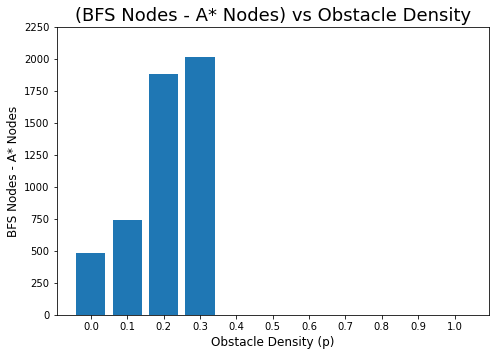
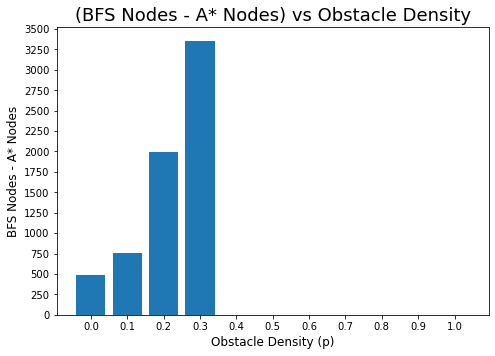
Fixed DFS

diff --git a/Project 1/Maze.py b/Project 1/Maze.py
@@ -24,13 +24,13 @@ class Coord:
         """check whether the cell is available in the game
         :return: boolean
         """
-        return self._m[self._x][self._y] == 0 or self._m[self._x][self._y] == -2
+        return self._m[self._x][self._y] == 0
 
     def get_neighbor_coords(self):
         x, y = (self._x, self._y)
-        coords = [(x, y + 1), (x - 1, y), (x + 1, y), (x, y - 1)]
+        coords = [(x - 1, y), (x, y - 1), (x + 1, y), (x, y + 1)]
         dim = len(self._m)
-        li = [(a, b) for (a, b) in coords if 0 <= a < dim and 0 <= b < dim and (self._m[a][b] == 0 or self._m[a][b] == -2)]
+        li = [(a, b) for (a, b) in coords if 0 <= a < dim and 0 <= b < dim and self._m[a][b] == 0]
         return li
 
     def close(self):
@@ -400,7 +400,14 @@ class MazeGame:
                 return False
             for fire in self._fire_loc:
                 if point[0] == fire[0] and point[1] == fire[1]:
-                    return False        
+                    return False
+                
+    def plot_path(self):
+        color_list = ['#ffff00', 'w', '#808080', 'g']  # [-1 yellow, 0 white, 1 grey, 2 green]
+        no_path_colors = ['#ffff00', 'w', '#808080']
+        colors = ListedColormap(color_list if len(self._path) > 0 else no_path_colors)
+        plt.matshow(self._matrix, interpolation='none', cmap=colors)
+        plt.show()
         
 def test_strat_1(n):
     average_success_per_q = []
@@ -601,7 +608,7 @@ def test_time_bfs():
     
 def test_time_dfs():
     time_consumed = 0
-    size = 650
+    size = 7000
     while time_consumed <= 60:
         i=1
         while i <= 5:
@@ -610,12 +617,13 @@ def test_time_dfs():
             if game.dfs((0,0), (size-1, size-1)) == False:
                 continue
             time_end = time.time()
+            print(time_end-time_start)
             time_consumed += time_end-time_start
             i+=1
         time_consumed = time_consumed/5
         print(size, ":", time_consumed)
-        size += 10
-    print("Largest DFS size:", size-20, "x", size-20)
+        size += 100
+    print("Largest DFS size:", size-200, "x", size-200)
 
 def test_time_a_star():
     time_consumed = 0
@@ -637,16 +645,17 @@ def test_time_a_star():
     
 # Test
 if __name__ == '__main__':
-    n = 250
-    p = 0.0
+    n = 500
+    p = 0.3
     q = 1.0
     
+    
+
     test_dfs(n, 25)
     test_bfs_a_star(n, 25)
-    test_time_bfs()
-    test_time_dfs()
+    #test_time_bfs()
+    #test_time_dfs()
     test_time_a_star()
-    test_strat_1(75)
-    test_strat_2(75)
-    test_strat_3(75)
-    
+    #test_strat_1(75)
+    #test_strat_2(75)
+    #test_strat_3(75)
